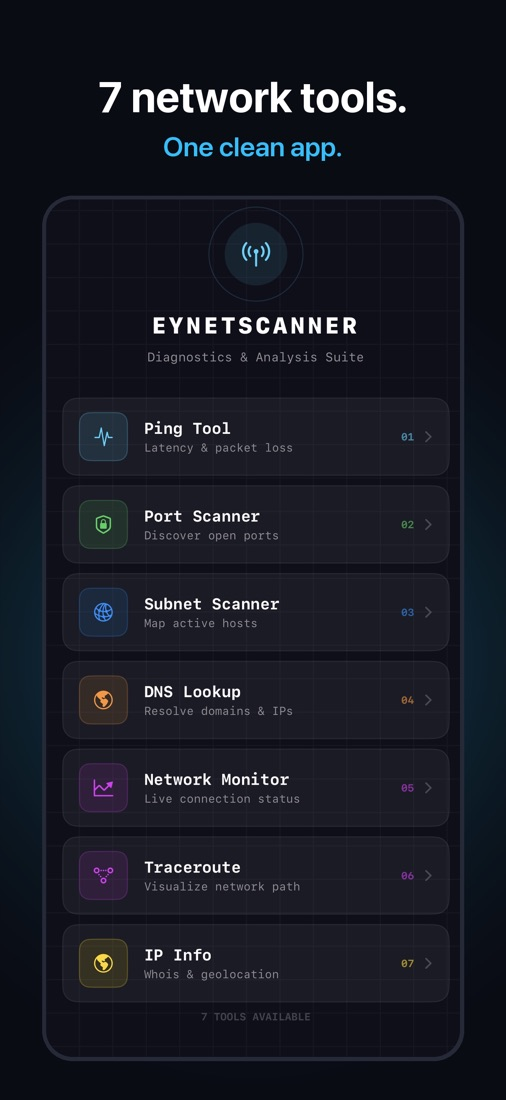
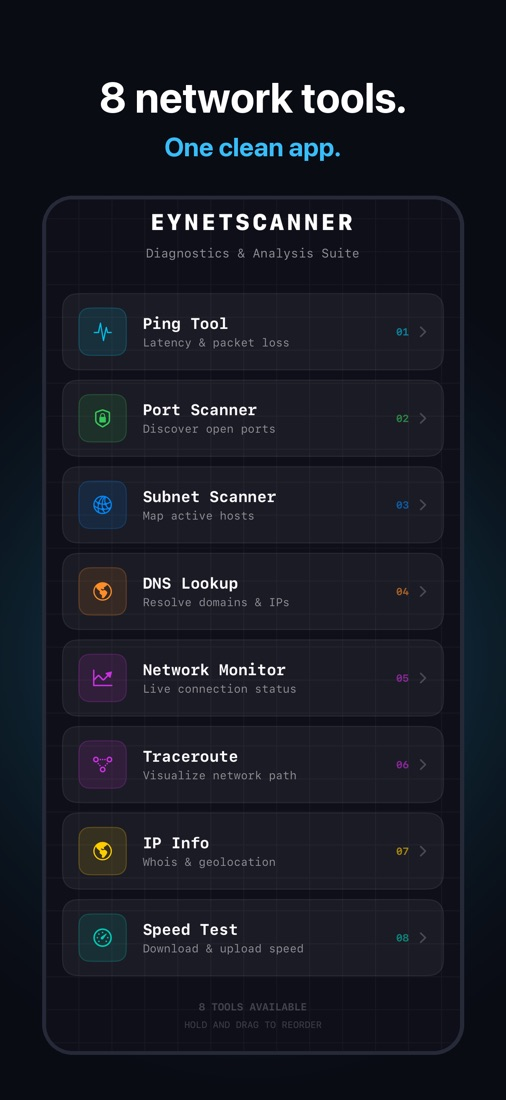
EYNetScanner 1.2: Hız Testi, paylaşım/CSV ve araç sıralama siteye eklendi

diff --git a/eynetscanner/index.html b/eynetscanner/index.html
@@ -4,7 +4,7 @@
   <meta charset="utf-8">
   <meta name="viewport" content="width=device-width, initial-scale=1">
   <title>EYNetScanner — iPhone için ping, port ve ağ tarayıcı | EY Apps</title>
-  <meta name="description" content="EYNetScanner: iPhone için ücretsiz ağ araçları. Ping, port tarama, subnet tarama, DNS sorgusu, IP bilgisi, traceroute ve bağlantı izleme. Reklamsız, takipsiz.">
+  <meta name="description" content="EYNetScanner: iPhone için ücretsiz ağ araçları. Ping, port tarama, subnet tarama, DNS sorgusu, IP bilgisi, traceroute, hız testi ve bağlantı izleme. Reklamsız, takipsiz.">
   <meta name="author" content="Ercan Yüzük">
   <meta name="robots" content="index, follow, max-image-preview:large">
   <meta name="theme-color" content="#07080d">
@@ -18,22 +18,22 @@
   <meta property="og:site_name" content="EY Apps">
   <meta property="og:locale" content="tr_TR">
   <meta property="og:title" content="EYNetScanner — iPhone için ping, port ve ağ tarayıcı | EY Apps">
-  <meta property="og:description" content="EYNetScanner: iPhone için ücretsiz ağ araçları. Ping, port tarama, subnet tarama, DNS sorgusu, IP bilgisi, traceroute ve bağlantı izleme. Reklamsız, takipsiz.">
+  <meta property="og:description" content="EYNetScanner: iPhone için ücretsiz ağ araçları. Ping, port tarama, subnet tarama, DNS sorgusu, IP bilgisi, traceroute, hız testi ve bağlantı izleme. Reklamsız, takipsiz.">
   <meta property="og:url" content="https://apps.ercanyuzuk.com/eynetscanner/">
   <meta property="og:image" content="https://apps.ercanyuzuk.com/assets/icons/eynetscanner.png">
   <meta name="twitter:card" content="summary">
   <meta name="twitter:title" content="EYNetScanner — iPhone için ping, port ve ağ tarayıcı | EY Apps">
-  <meta name="twitter:description" content="EYNetScanner: iPhone için ücretsiz ağ araçları. Ping, port tarama, subnet tarama, DNS sorgusu, IP bilgisi, traceroute ve bağlantı izleme. Reklamsız, takipsiz.">
+  <meta name="twitter:description" content="EYNetScanner: iPhone için ücretsiz ağ araçları. Ping, port tarama, subnet tarama, DNS sorgusu, IP bilgisi, traceroute, hız testi ve bağlantı izleme. Reklamsız, takipsiz.">
   <meta name="twitter:image" content="https://apps.ercanyuzuk.com/assets/icons/eynetscanner.png">
 
   <link rel="preconnect" href="https://fonts.googleapis.com">
   <link rel="preconnect" href="https://fonts.gstatic.com" crossorigin>
   <link href="https://fonts.googleapis.com/css2?family=JetBrains+Mono:wght@400;600&family=Space+Grotesk:wght@400;500;600;700&display=swap" rel="stylesheet">
   <link rel="stylesheet" href="/css/style.css">
-  <script type="application/ld+json">{"@context":"https://schema.org","@type":"MobileApplication","name":"EYNetScanner","description":"Ping, port tarama, subnet tarama, DNS, IP bilgisi, traceroute ve canlı bağlantı izleme — iPhone'unuzda. Hesap yok, reklam yok, takip yok.","url":"https://apps.ercanyuzuk.com/eynetscanner/","image":"https://apps.ercanyuzuk.com/assets/icons/eynetscanner.png","applicationCategory":"UtilitiesApplication","operatingSystem":"iOS 26.2","softwareVersion":"1.0","inLanguage":"tr","author":{"@type":"Person","name":"Ercan Yüzük","url":"https://www.ercanyuzuk.com"},"offers":{"@type":"Offer","price":"0","priceCurrency":"USD"},"installUrl":"https://apps.apple.com/us/app/eynetscanner/id6823558559","sameAs":["https://apps.apple.com/us/app/eynetscanner/id6823558559"],"screenshot":["https://apps.ercanyuzuk.com/assets/shots/netscanner-01_IMG_4521.jpg","https://apps.ercanyuzuk.com/assets/shots/netscanner-02_IMG_4524.jpg","https://apps.ercanyuzuk.com/assets/shots/netscanner-03_IMG_4522.jpg","https://apps.ercanyuzuk.com/assets/shots/netscanner-04_IMG_4523.jpg","https://apps.ercanyuzuk.com/assets/shots/netscanner-05_IMG_4525.jpg"],"softwareRequirements":"iOS 26.2+","featureList":["Ping","Port Scanner","Subnet Scanner","DNS Lookup","IP Info","Traceroute & Monitor"]}</script>
-  <script type="application/ld+json">{"@context":"https://schema.org","@type":"VideoObject","name":"EYNetScanner tanıtım videosu","description":"Kısa bir turla yedi araç: ping ile gecikme ve paket kaybı, port tarayıcı, DNS sorgusu, IP bilgisi, traceroute ve canlı bağlantı izleme.","thumbnailUrl":"https://apps.ercanyuzuk.com/assets/video/eynetscanner-tanitim.jpg","contentUrl":"https://apps.ercanyuzuk.com/assets/video/eynetscanner-tanitim.mp4","uploadDate":"2026-11-12","duration":"PT50S","inLanguage":"tr"}</script>
+  <script type="application/ld+json">{"@context":"https://schema.org","@type":"MobileApplication","name":"EYNetScanner","description":"Ping, port tarama, subnet tarama, DNS, IP bilgisi, traceroute, hız testi ve canlı bağlantı izleme — iPhone'unuzda. Hesap yok, reklam yok, takip yok.","url":"https://apps.ercanyuzuk.com/eynetscanner/","image":"https://apps.ercanyuzuk.com/assets/icons/eynetscanner.png","applicationCategory":"UtilitiesApplication","operatingSystem":"iOS 26.2","softwareVersion":"1.2","inLanguage":"tr","author":{"@type":"Person","name":"Ercan Yüzük","url":"https://www.ercanyuzuk.com"},"offers":{"@type":"Offer","price":"0","priceCurrency":"USD"},"installUrl":"https://apps.apple.com/us/app/eynetscanner/id6823558559","sameAs":["https://apps.apple.com/us/app/eynetscanner/id6823558559"],"screenshot":["https://apps.ercanyuzuk.com/assets/shots/netscanner-01_IMG_4521.jpg","https://apps.ercanyuzuk.com/assets/shots/netscanner-02_IMG_4524.jpg","https://apps.ercanyuzuk.com/assets/shots/netscanner-03_IMG_4522.jpg","https://apps.ercanyuzuk.com/assets/shots/netscanner-04_IMG_4523.jpg","https://apps.ercanyuzuk.com/assets/shots/netscanner-05_IMG_4525.jpg","https://apps.ercanyuzuk.com/assets/shots/netscanner-06_SpeedTest.jpg"],"softwareRequirements":"iOS 26.2+","featureList":["Ping","Port Scanner","Subnet Scanner","DNS Lookup","IP Info","Traceroute & Monitor","Hız Testi","Paylaş & CSV","Kendi Sıranız"]}</script>
+  <script type="application/ld+json">{"@context":"https://schema.org","@type":"VideoObject","name":"EYNetScanner tanıtım videosu","description":"Kısa bir turla sekiz araç: ping ile gecikme ve paket kaybı, port tarayıcı, DNS sorgusu, IP bilgisi, canlı bağlantı izleme ve yeni hız testi; ayrıca sonuçları paylaşmak ve araçları kendi sıranıza dizmek.","thumbnailUrl":"https://apps.ercanyuzuk.com/assets/video/eynetscanner-tanitim.jpg","contentUrl":"https://apps.ercanyuzuk.com/assets/video/eynetscanner-tanitim.mp4","uploadDate":"2026-11-12","duration":"PT50S","inLanguage":"tr"}</script>
   <script type="application/ld+json">{"@context":"https://schema.org","@type":"BreadcrumbList","itemListElement":[{"@type":"ListItem","position":1,"name":"EY Apps","item":"https://apps.ercanyuzuk.com/"},{"@type":"ListItem","position":2,"name":"EYNetScanner","item":"https://apps.ercanyuzuk.com/eynetscanner/"}]}</script>
-  <script type="application/ld+json">{"@context":"https://schema.org","@type":"FAQPage","mainEntity":[{"@type":"Question","name":"EYNetScanner ücretli mi?","acceptedAnswer":{"@type":"Answer","text":"Hayır. EYNetScanner App Store'da ücretsizdir; reklam ve uygulama içi takip yoktur."}},{"@type":"Question","name":"Hangi iOS sürümü gerekiyor?","acceptedAnswer":{"@type":"Answer","text":"iOS 26.2 veya sonrası gerekir."}},{"@type":"Question","name":"Neden Yerel Ağ izni istiyor?","acceptedAnswer":{"@type":"Answer","text":"Subnet tarama ve Bonjour ile cihaz keşfi için iOS'un Yerel Ağ iznine ihtiyaç vardır. İzin vermezseniz diğer araçlar çalışmaya devam eder."}},{"@type":"Question","name":"Hesap açmam gerekiyor mu?","acceptedAnswer":{"@type":"Answer","text":"Hayır. Hesap, kayıt ya da giriş yoktur; uygulamayı açıp hemen kullanabilirsiniz."}}]}</script>
+  <script type="application/ld+json">{"@context":"https://schema.org","@type":"FAQPage","mainEntity":[{"@type":"Question","name":"EYNetScanner ücretli mi?","acceptedAnswer":{"@type":"Answer","text":"Hayır. EYNetScanner App Store'da ücretsizdir; reklam ve uygulama içi takip yoktur."}},{"@type":"Question","name":"Hangi iOS sürümü gerekiyor?","acceptedAnswer":{"@type":"Answer","text":"iOS 26.2 veya sonrası gerekir."}},{"@type":"Question","name":"Hız Testi ne kadar veri kullanır?","acceptedAnswer":{"@type":"Answer","text":"Bir test yaklaşık 20 saniye sürer ve birkaç yüz MB veri kullanabilir. Hücresel bağlantıdayken dikkat edin. Test verisi Apple veya Cloudflare sunucularıyla değiş tokuş edilir; sonuçlar saklanmaz."}},{"@type":"Question","name":"Neden Yerel Ağ izni istiyor?","acceptedAnswer":{"@type":"Answer","text":"Subnet tarama ve Bonjour ile cihaz keşfi için iOS'un Yerel Ağ iznine ihtiyaç vardır. İzin vermezseniz diğer araçlar çalışmaya devam eder."}},{"@type":"Question","name":"Hesap açmam gerekiyor mu?","acceptedAnswer":{"@type":"Answer","text":"Hayır. Hesap, kayıt ya da giriş yoktur; uygulamayı açıp hemen kullanabilirsiniz."}}]}</script>
 </head>
 <body>
   <canvas id="bg" aria-hidden="true"></canvas>
@@ -65,9 +65,9 @@
             <img src="/assets/icons/eynetscanner.png" alt="EYNetScanner uygulama simgesi" width="64" height="64">
             <div><div class="num">05 / 06 · iPhone</div><h1>EYNetScanner</h1></div>
           </div>
-          <p class="lead reveal">7 ağ aracı. Tek temiz uygulama.</p>
-          <p class="summary reveal">Ping, port tarama, subnet tarama, DNS, IP bilgisi, traceroute ve canlı bağlantı izleme — iPhone&#39;unuzda. Hesap yok, reklam yok, takip yok.</p>
-          <div class="meta reveal"><span class="chip">iPhone</span><span class="chip">v1.0</span><span class="chip">iOS 26.2+</span><span class="chip">Ücretsiz</span></div>
+          <p class="lead reveal">8 ağ aracı. Tek temiz uygulama.</p>
+          <p class="summary reveal">Ping, port tarama, subnet tarama, DNS, IP bilgisi, traceroute, hız testi ve canlı bağlantı izleme — iPhone&#39;unuzda. Hesap yok, reklam yok, takip yok.</p>
+          <div class="meta reveal"><span class="chip">iPhone</span><span class="chip">v1.2</span><span class="chip">iOS 26.2+</span><span class="chip">Ücretsiz</span></div>
           
           <div class="actions reveal">
             <a class="btn btn-primary magnetic" href="https://apps.apple.com/us/app/eynetscanner/id6823558559" target="_blank" rel="noopener"><span>App Store&#39;dan indir</span></a>
@@ -79,13 +79,13 @@
         
       <div class="visual reveal carousel" style="--d:.1s">
         <div class="stage phones">
-          <div class="phone back" aria-hidden="true"><div class="screen" data-slides data-offset="4"><img src="/assets/shots/netscanner-01_IMG_4521.jpg" alt="EYNetScanner ekran görüntüsü 1" class="on" fetchpriority="high" decoding="async"><img src="/assets/shots/netscanner-02_IMG_4524.jpg" alt="EYNetScanner ekran görüntüsü 2" loading="lazy" decoding="async"><img src="/assets/shots/netscanner-03_IMG_4522.jpg" alt="EYNetScanner ekran görüntüsü 3" loading="lazy" decoding="async"><img src="/assets/shots/netscanner-04_IMG_4523.jpg" alt="EYNetScanner ekran görüntüsü 4" loading="lazy" decoding="async"><img src="/assets/shots/netscanner-05_IMG_4525.jpg" alt="EYNetScanner ekran görüntüsü 5" loading="lazy" decoding="async"></div></div>
-          <div class="phone back2" aria-hidden="true"><div class="screen" data-slides data-offset="1"><img src="/assets/shots/netscanner-01_IMG_4521.jpg" alt="EYNetScanner ekran görüntüsü 1" class="on" fetchpriority="high" decoding="async"><img src="/assets/shots/netscanner-02_IMG_4524.jpg" alt="EYNetScanner ekran görüntüsü 2" loading="lazy" decoding="async"><img src="/assets/shots/netscanner-03_IMG_4522.jpg" alt="EYNetScanner ekran görüntüsü 3" loading="lazy" decoding="async"><img src="/assets/shots/netscanner-04_IMG_4523.jpg" alt="EYNetScanner ekran görüntüsü 4" loading="lazy" decoding="async"><img src="/assets/shots/netscanner-05_IMG_4525.jpg" alt="EYNetScanner ekran görüntüsü 5" loading="lazy" decoding="async"></div></div>
-          <div class="phone front"><div class="screen" data-slides><img src="/assets/shots/netscanner-01_IMG_4521.jpg" alt="EYNetScanner ekran görüntüsü 1" class="on" fetchpriority="high" decoding="async"><img src="/assets/shots/netscanner-02_IMG_4524.jpg" alt="EYNetScanner ekran görüntüsü 2" loading="lazy" decoding="async"><img src="/assets/shots/netscanner-03_IMG_4522.jpg" alt="EYNetScanner ekran görüntüsü 3" loading="lazy" decoding="async"><img src="/assets/shots/netscanner-04_IMG_4523.jpg" alt="EYNetScanner ekran görüntüsü 4" loading="lazy" decoding="async"><img src="/assets/shots/netscanner-05_IMG_4525.jpg" alt="EYNetScanner ekran görüntüsü 5" loading="lazy" decoding="async"></div></div>
+          <div class="phone back" aria-hidden="true"><div class="screen" data-slides data-offset="5"><img src="/assets/shots/netscanner-01_IMG_4521.jpg" alt="EYNetScanner ekran görüntüsü 1" class="on" fetchpriority="high" decoding="async"><img src="/assets/shots/netscanner-02_IMG_4524.jpg" alt="EYNetScanner ekran görüntüsü 2" loading="lazy" decoding="async"><img src="/assets/shots/netscanner-03_IMG_4522.jpg" alt="EYNetScanner ekran görüntüsü 3" loading="lazy" decoding="async"><img src="/assets/shots/netscanner-04_IMG_4523.jpg" alt="EYNetScanner ekran görüntüsü 4" loading="lazy" decoding="async"><img src="/assets/shots/netscanner-05_IMG_4525.jpg" alt="EYNetScanner ekran görüntüsü 5" loading="lazy" decoding="async"><img src="/assets/shots/netscanner-06_SpeedTest.jpg" alt="EYNetScanner ekran görüntüsü 6" loading="lazy" decoding="async"></div></div>
+          <div class="phone back2" aria-hidden="true"><div class="screen" data-slides data-offset="1"><img src="/assets/shots/netscanner-01_IMG_4521.jpg" alt="EYNetScanner ekran görüntüsü 1" class="on" fetchpriority="high" decoding="async"><img src="/assets/shots/netscanner-02_IMG_4524.jpg" alt="EYNetScanner ekran görüntüsü 2" loading="lazy" decoding="async"><img src="/assets/shots/netscanner-03_IMG_4522.jpg" alt="EYNetScanner ekran görüntüsü 3" loading="lazy" decoding="async"><img src="/assets/shots/netscanner-04_IMG_4523.jpg" alt="EYNetScanner ekran görüntüsü 4" loading="lazy" decoding="async"><img src="/assets/shots/netscanner-05_IMG_4525.jpg" alt="EYNetScanner ekran görüntüsü 5" loading="lazy" decoding="async"><img src="/assets/shots/netscanner-06_SpeedTest.jpg" alt="EYNetScanner ekran görüntüsü 6" loading="lazy" decoding="async"></div></div>
+          <div class="phone front"><div class="screen" data-slides><img src="/assets/shots/netscanner-01_IMG_4521.jpg" alt="EYNetScanner ekran görüntüsü 1" class="on" fetchpriority="high" decoding="async"><img src="/assets/shots/netscanner-02_IMG_4524.jpg" alt="EYNetScanner ekran görüntüsü 2" loading="lazy" decoding="async"><img src="/assets/shots/netscanner-03_IMG_4522.jpg" alt="EYNetScanner ekran görüntüsü 3" loading="lazy" decoding="async"><img src="/assets/shots/netscanner-04_IMG_4523.jpg" alt="EYNetScanner ekran görüntüsü 4" loading="lazy" decoding="async"><img src="/assets/shots/netscanner-05_IMG_4525.jpg" alt="EYNetScanner ekran görüntüsü 5" loading="lazy" decoding="async"><img src="/assets/shots/netscanner-06_SpeedTest.jpg" alt="EYNetScanner ekran görüntüsü 6" loading="lazy" decoding="async"></div></div>
           <div class="radar" aria-hidden="true"><i style="left:30%;top:28%"></i><i style="left:68%;top:40%;animation-delay:-1s"></i><i style="left:44%;top:70%;animation-delay:-2s"></i></div>
           
         </div>
-        <div class="dots"><button aria-label="Görsel 1" class="on"></button><button aria-label="Görsel 2"></button><button aria-label="Görsel 3"></button><button aria-label="Görsel 4"></button><button aria-label="Görsel 5"></button></div>
+        <div class="dots"><button aria-label="Görsel 1" class="on"></button><button aria-label="Görsel 2"></button><button aria-label="Görsel 3"></button><button aria-label="Görsel 4"></button><button aria-label="Görsel 5"></button><button aria-label="Görsel 6"></button></div>
       </div>
       </div>
     </section>
@@ -102,6 +102,9 @@
         <div class="feature reveal" style="--d:0s"><h3>DNS Lookup</h3><p>İleri (A/AAAA) ve ters DNS sorguları.</p></div>
         <div class="feature reveal" style="--d:0.07s"><h3>IP Info</h3><p>Genel IP&#39;niz ya da herhangi bir IP&#39;nin konumu, ISS&#39;si ve saat dilimi.</p></div>
         <div class="feature reveal" style="--d:0.14s"><h3>Traceroute &amp; Monitor</h3><p>Atlama atlama yol analizi ve sürekli bağlantı/gecikme izleme.</p></div>
+        <div class="feature reveal" style="--d:0s"><h3>Hız Testi</h3><p>Yeni: indirme ve yükleme hızı, gecikme ve jitter. Yaklaşık 20 saniyede, Apple veya Cloudflare sunucularıyla.</p></div>
+        <div class="feature reveal" style="--d:0.07s"><h3>Paylaş &amp; CSV</h3><p>Yeni: sonuçları metin olarak paylaşın; port, subnet ve traceroute sonuçlarını CSV olarak dışa aktarın.</p></div>
+        <div class="feature reveal" style="--d:0.14s"><h3>Kendi Sıranız</h3><p>Yeni: ana ekrandaki araçları basılı tutup sürükleyerek en çok kullandığınızı en üste alın.</p></div>
       </div>
     </section>
 
@@ -112,7 +115,7 @@
             <p class="kicker">02 — Tanıtım</p>
             <h2 id="vitrin">50 saniyede EYNetScanner</h2>
           </div>
-          <p class="summary reveal">Kısa bir turla yedi araç: ping ile gecikme ve paket kaybı, port tarayıcı, DNS sorgusu, IP bilgisi, traceroute ve canlı bağlantı izleme.</p>
+          <p class="summary reveal">Kısa bir turla sekiz araç: ping ile gecikme ve paket kaybı, port tarayıcı, DNS sorgusu, IP bilgisi, canlı bağlantı izleme ve yeni hız testi; ayrıca sonuçları paylaşmak ve araçları kendi sıranıza dizmek.</p>
           <p class="summary reveal">Hesap açmanız gerekmez, reklam ya da takip yoktur; uygulamayı açıp hemen ağınızı incelemeye başlayabilirsiniz.</p>
         </div>
         
@@ -134,15 +137,17 @@
       </div>
       <div class="about-grid">
         <div class="about">
-          <article class="about-block reveal"><h3>Cebinizde ağ araç çantası</h3><p>EYNetScanner, ağ sorunlarını giderirken en çok ihtiyaç duyulan yedi aracı tek bir iPhone uygulamasında toplar. Sahada bir switch&#39;in ayakta olup olmadığını kontrol etmek, evdeki ağda hangi cihazların bağlı olduğunu görmek ya da bir sunucunun portlarını denetlemek için bilgisayar açmanız gerekmez.</p></article>
+          <article class="about-block reveal"><h3>Cebinizde ağ araç çantası</h3><p>EYNetScanner, ağ sorunlarını giderirken en çok ihtiyaç duyulan sekiz aracı tek bir iPhone uygulamasında toplar. Sahada bir switch&#39;in ayakta olup olmadığını kontrol etmek, evdeki ağda hangi cihazların bağlı olduğunu görmek ya da bir sunucunun portlarını denetlemek için bilgisayar açmanız gerekmez.</p></article>
           <article class="about-block reveal"><h3>Ping ve bağlantı izleme</h3><p>Ping aracı ICMP ile gecikmeyi ölçer; ICMP engelliyse otomatik olarak TCP&#39;ye geçer. Ortalama gecikme, jitter ve paket kaybı tek ekranda görünür. Bonjour ile yerel ağdaki cihazları keşfedip tek dokunuşla hedef seçebilirsiniz. Monitor aracı ise bir hedefe olan bağlantıyı ve gecikmeyi sürekli izler.</p></article>
           <article class="about-block reveal"><h3>Subnet ve port tarama</h3><p>Subnet Scanner bağlı olduğunuz alt ağı otomatik algılar ve aktif cihazları listeler. Port Scanner, seçtiğiniz cihazda yaygın TCP portlarını kontrol eder ve açık portların yanıt sürelerini gösterir — yalnızca yetkiniz olan ağ ve cihazlarda kullanın.</p></article>
+          <article class="about-block reveal"><h3>Hız testi</h3><p>Hız Testi indirme ve yükleme hızınızı, gecikmeyi ve jitter değerini ölçer. Test yaklaşık 20 saniye sürer ve birkaç yüz MB veri kullanabilir; hücresel bağlantıda buna dikkat edin. Ölçüm için Apple&#39;ın networkQuality sunucusu kullanılır, ulaşılamazsa Cloudflare devreye girer.</p></article>
+          <article class="about-block reveal"><h3>Paylaşın, dışa aktarın, düzenleyin</h3><p>Sonuçları metin olarak paylaşabilir; port tarama, subnet tarama ve traceroute sonuçlarını CSV olarak dışa aktarabilirsiniz. Ana ekrandaki araçları basılı tutup sürükleyerek kendi sıranıza göre dizebilirsiniz.</p></article>
           <article class="about-block reveal"><h3>DNS, IP bilgisi ve traceroute</h3><p>DNS Lookup ile alan adlarının A/AAAA kayıtlarını ve IP adreslerinin ters DNS kaydını sorgulayın. IP Info, genel IP adresinizi ya da girdiğiniz herhangi bir IP&#39;nin konumunu, servis sağlayıcısını ve saat dilimini gösterir. Traceroute, hedefe giden yolu atlama atlama çıkarır.</p></article>
         </div>
         <aside class="specs reveal" aria-label="Teknik bilgiler">
           <img src="/assets/icons/eynetscanner.png" alt="" width="72" height="72" loading="lazy">
           <dl>
-            <div><dt>Sürüm</dt><dd>1.0</dd></div>
+            <div><dt>Sürüm</dt><dd>1.2</dd></div>
             <div><dt>Platform</dt><dd>iPhone</dd></div>
             <div><dt>Gereksinim</dt><dd>iOS 26.2+</dd></div>
             <div><dt>Fiyat</dt><dd>Ücretsiz</dd></div>
@@ -162,6 +167,7 @@
       <div class="faq">
         <details class="reveal"><summary><h3>EYNetScanner ücretli mi?</h3></summary><p>Hayır. EYNetScanner App Store&#39;da ücretsizdir; reklam ve uygulama içi takip yoktur.</p></details>
         <details class="reveal"><summary><h3>Hangi iOS sürümü gerekiyor?</h3></summary><p>iOS 26.2 veya sonrası gerekir.</p></details>
+        <details class="reveal"><summary><h3>Hız Testi ne kadar veri kullanır?</h3></summary><p>Bir test yaklaşık 20 saniye sürer ve birkaç yüz MB veri kullanabilir. Hücresel bağlantıdayken dikkat edin. Test verisi Apple veya Cloudflare sunucularıyla değiş tokuş edilir; sonuçlar saklanmaz.</p></details>
         <details class="reveal"><summary><h3>Neden Yerel Ağ izni istiyor?</h3></summary><p>Subnet tarama ve Bonjour ile cihaz keşfi için iOS&#39;un Yerel Ağ iznine ihtiyaç vardır. İzin vermezseniz diğer araçlar çalışmaya devam eder.</p></details>
         <details class="reveal"><summary><h3>Hesap açmam gerekiyor mu?</h3></summary><p>Hayır. Hesap, kayıt ya da giriş yoktur; uygulamayı açıp hemen kullanabilirsiniz.</p></details>
       </div>

diff --git a/index.html b/index.html
@@ -89,7 +89,7 @@
     </section>
 
     <div class="marquee" aria-hidden="true">
-      <div class="marquee-track"><span>Temizlik</span><span>Disk Analizi</span><span>Uygulama Kaldır</span><span>SSH</span><span>Serial</span><span>SFTP</span><span>FTP</span><span>SMB</span><span>TFTP</span><span>FTP</span><span>Firmware</span><span>Canlı TV</span><span>Apple TV</span><span>Dizi &amp; Film</span><span>Ping</span><span>Port Scan</span><span>Traceroute</span><span>DNS</span><span>Rack</span><span>Patch Panel</span><span>VLAN</span><span>QR</span><span>SwiftUI</span><span>macOS</span><span>iPhone</span><span>Gizlilik</span><span>Reklamsız</span><span>Temizlik</span><span>Disk Analizi</span><span>Uygulama Kaldır</span><span>SSH</span><span>Serial</span><span>SFTP</span><span>FTP</span><span>SMB</span><span>TFTP</span><span>FTP</span><span>Firmware</span><span>Canlı TV</span><span>Apple TV</span><span>Dizi &amp; Film</span><span>Ping</span><span>Port Scan</span><span>Traceroute</span><span>DNS</span><span>Rack</span><span>Patch Panel</span><span>VLAN</span><span>QR</span><span>SwiftUI</span><span>macOS</span><span>iPhone</span><span>Gizlilik</span><span>Reklamsız</span></div>
+      <div class="marquee-track"><span>Temizlik</span><span>Disk Analizi</span><span>Uygulama Kaldır</span><span>SSH</span><span>Serial</span><span>SFTP</span><span>FTP</span><span>SMB</span><span>TFTP</span><span>FTP</span><span>Firmware</span><span>Canlı TV</span><span>Apple TV</span><span>Dizi &amp; Film</span><span>Ping</span><span>Port Scan</span><span>Hız Testi</span><span>DNS</span><span>Rack</span><span>Patch Panel</span><span>VLAN</span><span>QR</span><span>SwiftUI</span><span>macOS</span><span>iPhone</span><span>Gizlilik</span><span>Reklamsız</span><span>Temizlik</span><span>Disk Analizi</span><span>Uygulama Kaldır</span><span>SSH</span><span>Serial</span><span>SFTP</span><span>FTP</span><span>SMB</span><span>TFTP</span><span>FTP</span><span>Firmware</span><span>Canlı TV</span><span>Apple TV</span><span>Dizi &amp; Film</span><span>Ping</span><span>Port Scan</span><span>Hız Testi</span><span>DNS</span><span>Rack</span><span>Patch Panel</span><span>VLAN</span><span>QR</span><span>SwiftUI</span><span>macOS</span><span>iPhone</span><span>Gizlilik</span><span>Reklamsız</span></div>
     </div>
 
     <section class="section" id="uygulamalar">
@@ -148,8 +148,8 @@
             <span class="avail">App Store&#39;da</span>
           </div>
           <h3>EYNetScanner</h3>
-          <p class="tag">7 ağ aracı. Tek temiz uygulama.</p>
-          <p class="card-sum">Ping, port tarama, subnet tarama, DNS, IP bilgisi, traceroute ve canlı bağlantı izleme — iPhone&#39;unuzda. Hesap yok, reklam yok, takip yok.</p>
+          <p class="tag">8 ağ aracı. Tek temiz uygulama.</p>
+          <p class="card-sum">Ping, port tarama, subnet tarama, DNS, IP bilgisi, traceroute, hız testi ve canlı bağlantı izleme — iPhone&#39;unuzda. Hesap yok, reklam yok, takip yok.</p>
           <div class="platforms"><span class="chip">iPhone</span></div>
           <span class="arrow"><svg viewBox="0 0 24 24" width="18" height="18" aria-hidden="true"><path d="M5 12h14m0 0-6-6m6 6-6 6" fill="none" stroke="currentColor" stroke-width="2" stroke-linecap="round" stroke-linejoin="round"/></svg></span>
         </a>

diff --git a/eyconsol/index.html b/eyconsol/index.html
@@ -243,8 +243,8 @@
             <span class="avail">App Store&#39;da</span>
           </div>
           <h3>EYNetScanner</h3>
-          <p class="tag">7 ağ aracı. Tek temiz uygulama.</p>
-          <p class="card-sum">Ping, port tarama, subnet tarama, DNS, IP bilgisi, traceroute ve canlı bağlantı izleme — iPhone&#39;unuzda. Hesap yok, reklam yok, takip yok.</p>
+          <p class="tag">8 ağ aracı. Tek temiz uygulama.</p>
+          <p class="card-sum">Ping, port tarama, subnet tarama, DNS, IP bilgisi, traceroute, hız testi ve canlı bağlantı izleme — iPhone&#39;unuzda. Hesap yok, reklam yok, takip yok.</p>
           <div class="platforms"><span class="chip">iPhone</span></div>
           <span class="arrow"><svg viewBox="0 0 24 24" width="18" height="18" aria-hidden="true"><path d="M5 12h14m0 0-6-6m6 6-6 6" fill="none" stroke="currentColor" stroke-width="2" stroke-linecap="round" stroke-linejoin="round"/></svg></span>
         </a>

diff --git a/eyflash/index.html b/eyflash/index.html
@@ -218,8 +218,8 @@
             <span class="avail">App Store&#39;da</span>
           </div>
           <h3>EYNetScanner</h3>
-          <p class="tag">7 ağ aracı. Tek temiz uygulama.</p>
-          <p class="card-sum">Ping, port tarama, subnet tarama, DNS, IP bilgisi, traceroute ve canlı bağlantı izleme — iPhone&#39;unuzda. Hesap yok, reklam yok, takip yok.</p>
+          <p class="tag">8 ağ aracı. Tek temiz uygulama.</p>
+          <p class="card-sum">Ping, port tarama, subnet tarama, DNS, IP bilgisi, traceroute, hız testi ve canlı bağlantı izleme — iPhone&#39;unuzda. Hesap yok, reklam yok, takip yok.</p>
           <div class="platforms"><span class="chip">iPhone</span></div>
           <span class="arrow"><svg viewBox="0 0 24 24" width="18" height="18" aria-hidden="true"><path d="M5 12h14m0 0-6-6m6 6-6 6" fill="none" stroke="currentColor" stroke-width="2" stroke-linecap="round" stroke-linejoin="round"/></svg></span>
         </a>

diff --git a/eyiptv/index.html b/eyiptv/index.html
@@ -181,8 +181,8 @@
             <span class="avail">App Store&#39;da</span>
           </div>
           <h3>EYNetScanner</h3>
-          <p class="tag">7 ağ aracı. Tek temiz uygulama.</p>
-          <p class="card-sum">Ping, port tarama, subnet tarama, DNS, IP bilgisi, traceroute ve canlı bağlantı izleme — iPhone&#39;unuzda. Hesap yok, reklam yok, takip yok.</p>
+          <p class="tag">8 ağ aracı. Tek temiz uygulama.</p>
+          <p class="card-sum">Ping, port tarama, subnet tarama, DNS, IP bilgisi, traceroute, hız testi ve canlı bağlantı izleme — iPhone&#39;unuzda. Hesap yok, reklam yok, takip yok.</p>
           <div class="platforms"><span class="chip">iPhone</span></div>
           <span class="arrow"><svg viewBox="0 0 24 24" width="18" height="18" aria-hidden="true"><path d="M5 12h14m0 0-6-6m6 6-6 6" fill="none" stroke="currentColor" stroke-width="2" stroke-linecap="round" stroke-linejoin="round"/></svg></span>
         </a>
